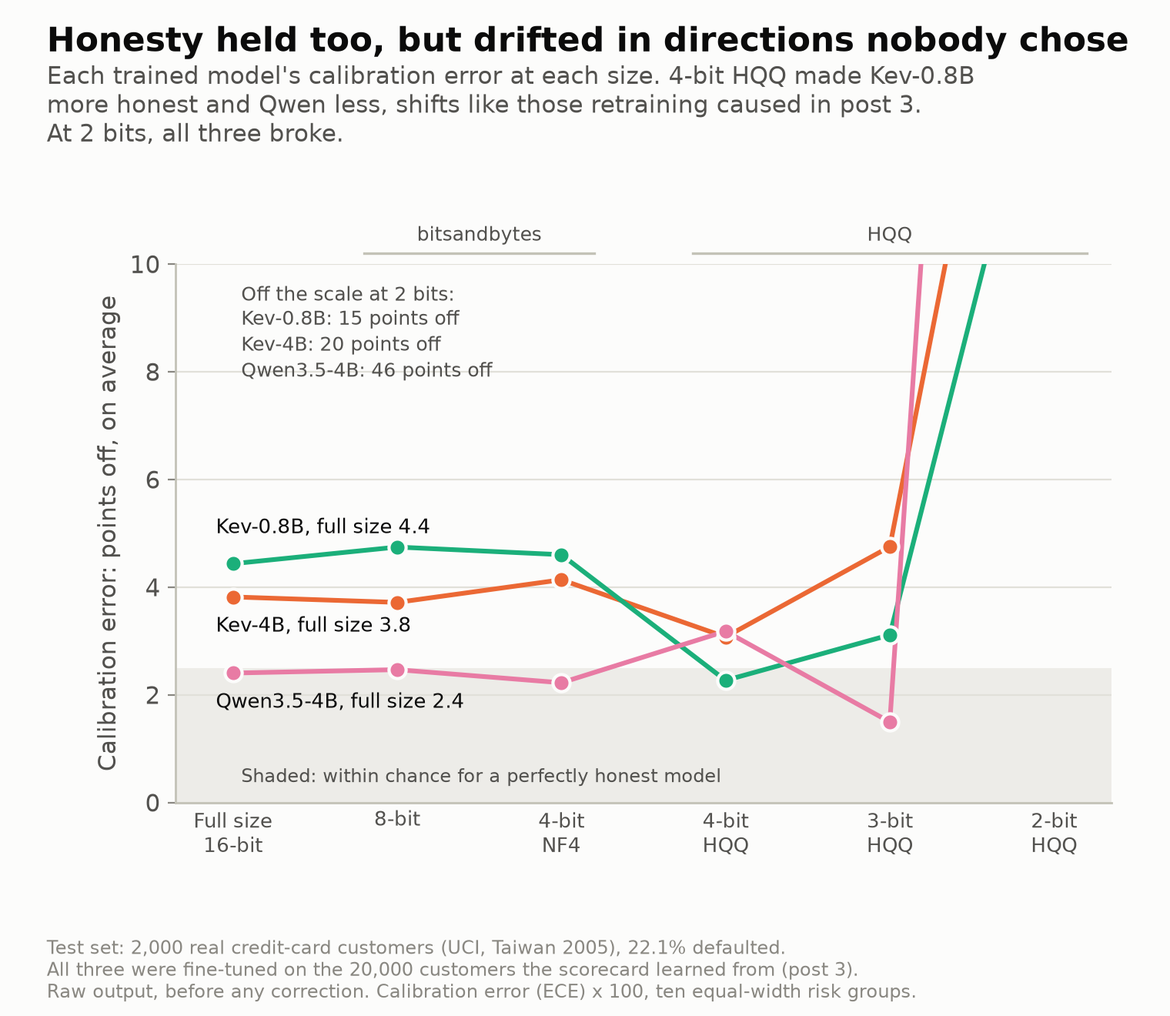
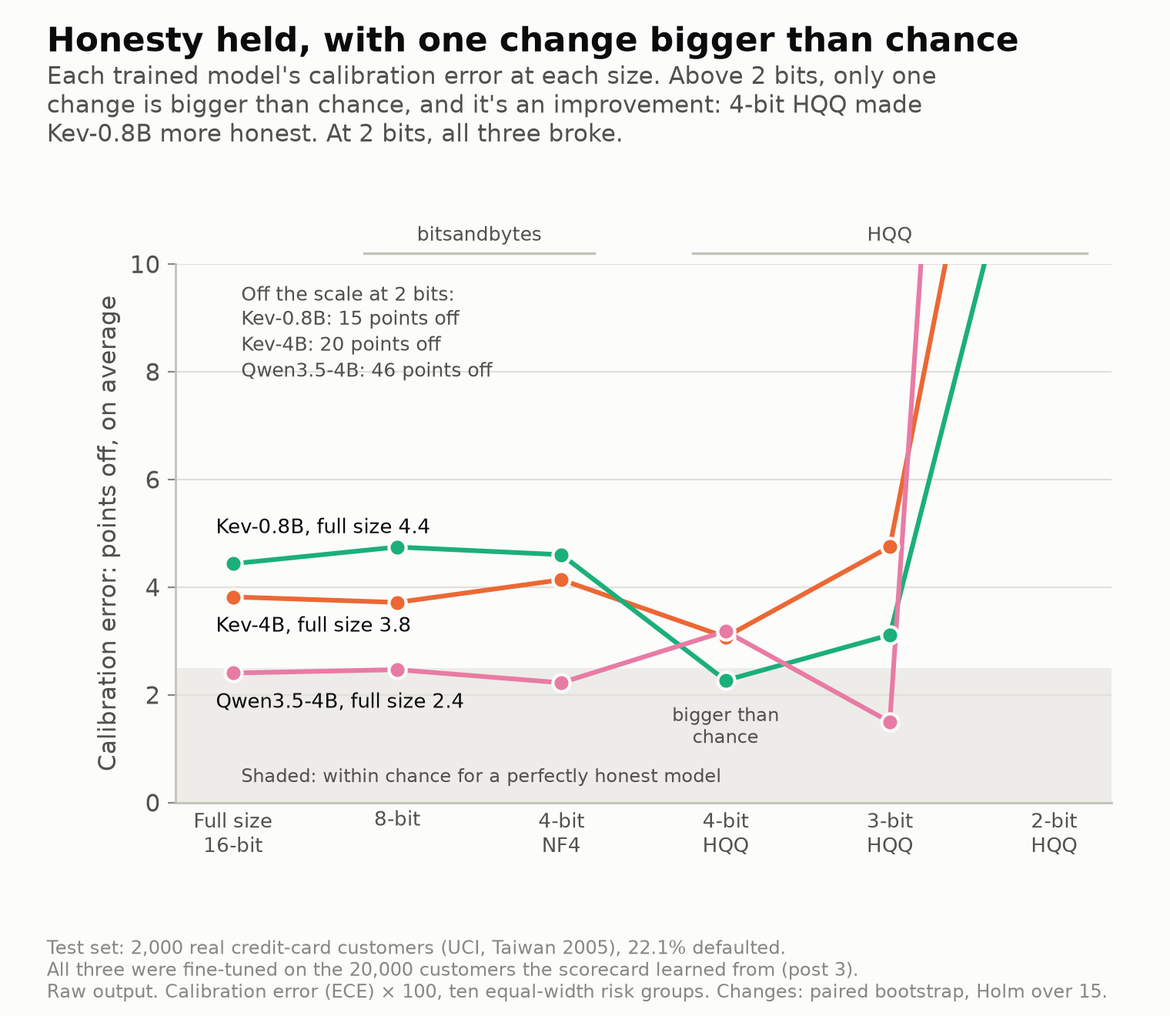
Review copy of post 4, version 2: speed re-run on a tuned GPU, review fixes
New title ("I shrank AI models. It saved memory, not time."), subtitle and speed
section with a new chart; decisions at the full-size cut-off; a paired test of
honesty changes; four more predictions. Still unlisted, noindex, no sitemap.

Changed region(s): [[0.0309, 0.0, 0.9586, 0.1553], [0.1546, 0.9629, 0.9276, 0.9939], [0.5875, 0.6833, 0.6493, 0.7455]]

diff --git a/review/shrinking-ai-models.md b/review/shrinking-ai-models.md
@@ -1,10 +1,10 @@
 ---
 layout: post
-title: "I shrank AI models to save money. They stayed honest, and got slower."
+title: "I shrank AI models. It saved memory, not time."
 date: 2026-11-26
 tags: [probability]
 permalink: /review/shrinking-ai-models/
-description: "I squeezed three trained AI models down to 8, 4, 3 and 2 bits. Their percentages held up longer than I expected. Their speed didn't."
+description: "I squeezed three trained AI models down to 8, 4, 3 and 2 bits. Their percentages held up to 4 bits. Shrinking saved memory, but rarely time."
 # Review copy: not listed on the home page or in the feed, hidden from search engines and the
 # sitemap, with Hypothesis for comments. To launch, move it to _posts/ and drop these four.
 noindex: true
@@ -13,146 +13,164 @@ hypothesis: true
 comments: false
 ---
 
-> **Draft for review, version 1 (26 November), not yet published.** Thank you for reading. This is the fourth post in the series, after [Can AI know when it's wrong?](/2026/11/23/can-ai-know-when-its-wrong/), [Why 99% accuracy can still be a disaster](/2026/11/24/why-99-percent-accuracy/) and [I gave AI the same data as a bank's model](/2026/11/25/fair-fight/). It takes the three models trained in the last post and shrinks them to save memory, then checks whether their percentages still come true.
+> **Draft for review, version 2 (27 November), not yet published.** Thank you for reading. This is the fourth post in the series, after [Can AI know when it's wrong?](/2026/11/23/can-ai-know-when-its-wrong/), [Why 99% accuracy can still be a disaster](/2026/11/24/why-99-percent-accuracy/) and [I gave AI the same data as a bank's model](/2026/11/25/fair-fight/). It takes the three models trained in the last post and shrinks them to save memory, then checks whether their percentages still come true.
+>
+> **New in version 2:** the speed section is re-run on a properly tuned GPU, with two faster 4-bit routes and FP8, and has a new title and chart. The lending-decision table now compares every version at the full-size model's cut-off, and changes in honesty now come with a test of whether they're bigger than chance.
 >
 > **To comment, no account needed:** reply to my message and quote the sentence you mean. If you already use [Hypothesis](https://web.hypothes.is/), you can also select text and click **Annotate**.
 >
-> I'd most like to know: does the headline ("they stayed honest, and got slower") feel fair given the details, does the section on customers moving while the scores held make sense and matter to you, would you act on the bank advice, and where did you get lost or bored?
+> I'd most like to know: does the headline ("it saved memory, not time") feel fair given the details, does the section on customers moving while the scores held make sense and matter to you, would you act on the bank advice, and where did you get lost or bored?
 
-*Three trained models, squeezed to 8, 4, 3 and 2 bits. Their percentages held up longer than I expected, their speed didn't, and the summary scores hid how far each customer's number moved.*
+*Three trained models, squeezed to 8, 4, 3 and 2 bits. Their percentages held up to 4 bits, but the summary scores hid how far each customer's number moved. And even on a tuned GPU, the smaller models were rarely faster.*
 
 Save a photo at a lower quality setting and, for a while, you can't tell the difference. Then, past some point, it turns into blocks.
 
-AI models get compressed the same way. A model is billions of numbers, each normally stored in 16 bits, enough for about 65,000 different values. Shrinking a model rounds those numbers more coarsely, like rounding every price in a shop to the nearest ten cents, then the nearest dollar, then the nearest ten dollars. It's called [quantization](https://huggingface.co/docs/transformers/main/en/quantization/overview), and it lets a model fit on smaller, cheaper hardware. The usual check afterwards is whether the model still gets the answers right.
+AI models get compressed the same way. A model is billions of numbers, each normally stored in 16 bits, enough for about 65,000 different values. Shrinking a model rounds those numbers more coarsely, like rounding every price in a shop to the nearest ten cents, then the nearest dollar, then the nearest ten dollars. It's called [quantization](https://huggingface.co/docs/transformers/main/en/quantization/overview), and it lets a model fit on a smaller, cheaper GPU, the chip that runs it. The usual check afterwards is whether the model still gets the answers right.
 
-This series checks something else: whether a model's percentages come true. In [my last post](/2026/11/25/fair-fight/), I trained three AI models on 20,000 credit-card customers whose outcomes were known, and they ranked customers about as well as the models banks use. This time I shrank those three, and asked the same 2,000 test customers the same question: how likely is this customer to miss next month's payment?
+This series checks something else: whether a model's percentages come true. In [my last post](/2026/11/25/fair-fight/), I trained four AI models on 20,000 credit-card customers whose outcomes were known, and they ranked customers about as well as the models banks use. This time I shrank three of them, and asked the same 2,000 test customers the same question: how likely is this customer to miss next month's payment? Would the shrunk models' percentages hold up, and would they really be cheaper to run?
 
-| Size | Values each number can take | GPU memory for the two 4B models |
+| Size | Values each number can take | Memory for the two 4B models' numbers |
 |---|---|---|
-| Full size, 16 bits | about 65,000 | 7.9 GB |
-| 8 bits | 256 | 4.5–4.6 GB |
-| 4 bits | 16 | 3.1 GB |
-| 3 bits | 8 | 2.7 GB |
-| 2 bits | 4 | 2.2 GB |
+| Full size, 16 bits | about 65,000 | 8.5 GB |
+| 8 bits | 256 | 4.9 GB |
+| 4 bits | 16 | 3.3–3.4 GB |
+| 3 bits | 8 | 2.9–3.0 GB |
+| 2 bits | 4 | 2.4 GB |
 
-Each small block of numbers gets its own scale, so even at 2 bits the four values differ from block to block. Some parts of each model stay full size, which is why 4 bits saves less than three-quarters of the memory.
+Each small block of numbers gets its own scale, so even at 2 bits the four values differ from block to block. The scales take space too, and some parts of each model stay full size, mostly the table that turns words into numbers. That's why 4 bits saves less than three-quarters of the memory.
 
-![Each trained model's ranking (AUC) at each size. Kev-4B, Kev-0.8B and Qwen3.5-4B stay between 0.780 and 0.792 from full size down to 4 bits, with either tool, all within 0.005 of their full-size scores and above the scorecard's 0.777. At 3 bits, Kev-0.8B (0.786) and Qwen (0.779) hold and Kev-4B slips to 0.776. At 2 bits, Kev-4B falls to 0.60, Kev-0.8B to 0.45 and Qwen to 0.43, the last two worse than a coin flip.](/public/images/shrinking-ai-models/post4_ranking.png){: data-dark-src="/public/images/shrinking-ai-models/post4_ranking-dark.png"}
+![Each trained model's ranking (AUC) at each size. Kev-4B, Kev-0.8B and Qwen3.5-4B stay between 0.780 and 0.792 from full size down to 4 bits, with either tool, all within 0.005 of their full-size scores and above the scorecard's 0.777. At 3 bits, Kev-0.8B (0.786) and Qwen (0.779) show no drop the test can detect and Kev-4B slips to 0.776. At 2 bits, Kev-4B falls to 0.60, Kev-0.8B to 0.45 and Qwen to 0.43, the last two worse than a coin flip.](/public/images/shrinking-ai-models/post4_ranking.png){: data-dark-src="/public/images/shrinking-ai-models/post4_ranking-dark.png"}
 
-## Three models, six sizes
+## Three models, six versions
 
-The three are the ones I trained last time: Kev-4B and Kev-0.8B, two open models built for decisions, and Qwen3.5-4B, a general open model. I left out Laya, the fourth: at 421 million parameters it already runs on a laptop's processor, so shrinking it doesn't answer a real question.
+The three are Kev-4B and Kev-0.8B, two open models built for decisions, and Qwen3.5-4B, a general open model. I left out Laya, the fourth model from last time: at 421 million numbers it already runs on a laptop's processor, so shrinking it doesn't answer a real question.
 
 I used two tools:
 
-- **bitsandbytes** at 8 bits and at 4 bits (a format called NF4), with the settings most people get when they ask the popular Hugging Face library to load a model "in 8-bit" or "in 4-bit".
+- **bitsandbytes,** the most widely used library for this: at 8 bits with its standard method (LLM.int8), and at 4 bits in NF4, the format most guides use.
 - **HQQ** at 4, 3 and 2 bits, so that one method goes all the way down, and its 4-bit version shows how much the tool matters at the same size.
 
-Neither tool needs any data to shrink a model, so nothing was tuned on the test customers. Each shrunk model is compared only with its own full-size version, run through the same server on the same GPU. And all three models learned from the same 20,000 customers as the scorecard I use as a reference.
+Neither tool needs any data to shrink a model, so nothing was tuned on the test customers. Each shrunk model is compared only with its own full-size version, run the same way on the same GPU. And all three models learned from the same 20,000 customers as the scorecard I use as a reference.
 
-## Ranking held to 3 bits, then fell off a cliff
+## Ranking held to 4 bits, and collapsed at 2
 
-To measure ranking I use the same score as before: pick one customer who defaulted and one who paid, and ask how often the model rates the defaulter as riskier ([AUC](https://en.wikipedia.org/wiki/Receiver_operating_characteristic#Area_under_the_curve); 0.5 is a coin toss).
+To measure ranking I use the same score as before: pick one customer who defaulted and one who paid, and ask how often the model rates the defaulter as riskier ([AUC](https://en.wikipedia.org/wiki/Receiver_operating_characteristic#Area_under_the_curve); 0.5 is a coin flip).
 
 The chart above tells it:
 
-- **Down to 4 bits, with either tool, nothing moved.** All three models stayed within 0.005 of their full-size scores, too close to tell apart.
-- **At 3 bits, Kev-4B slipped.** It dropped from 0.792 to 0.776, just under the scorecard. That was the only drop above 2 bits that held up statistically, even after correcting for making 15 comparisons. Kev-0.8B and Qwen held.
-- **At 2 bits, all three collapsed.** Kev-4B fell to 0.60, Kev-0.8B to 0.45 and Qwen to 0.43. The last two are worse than a coin toss: they'd do better with their answers reversed.
+- **Down to 4 bits, with either tool, nothing moved.** All three models stayed within 0.005 of their full-size scores. Comparing a model with itself on the same customers is precise: the test rules out a drop of more than about 0.004.
+- **At 3 bits, Kev-4B slipped,** from 0.792 to 0.776, level with the scorecard (0.777). That was the only drop above 2 bits the test detected, even after allowing for 15 comparisons (three models, five shrunk versions each). Kev-0.8B and Qwen showed no drop the test could detect, though at 3 bits it can't rule out one of up to about 0.015.
+- **At 2 bits, all three collapsed.** Kev-4B fell to 0.60, Kev-0.8B to 0.45 and Qwen to 0.43. The last two are worse than a coin flip: they'd do better with their answers reversed.
 
-## Honesty held too, but drifted in directions nobody chose
+## Honesty held, with one change bigger than chance
 
-Ranking is half the job. The other half is whether a model's percentages come true. I measure that as before: the average gap, in percentage points, between the risk a model promised and what happened ([calibration error](https://scikit-learn.org/stable/modules/calibration.html)). With 2,000 customers, a perfectly honest model stays below about 2.5 points in 95 samples out of 100.
+Ranking is half the job. The other half is whether a model's percentages come true. I measure that as before: the average gap, in percentage points, between the risk a model promised and what happened ([calibration error](https://scikit-learn.org/stable/modules/calibration.html)). With 2,000 customers, a perfectly honest model stays below about 2.5 points in 95 samples out of 100. To tell whether shrinking changed a model's honesty, I compared each shrunk version with its full size on the same customers, again allowing for the 15 comparisons.
 
-![Calibration error at each size, in points. At full size Kev-0.8B is 4.4 points off, Kev-4B 3.8 and Qwen3.5-4B 2.4. At 8 bits and 4-bit NF4, each stays within half a point of that. At 4-bit HQQ, Kev-0.8B improves to 2.3 and Qwen worsens to 3.2. At 3 bits, Kev-4B is 4.8, Kev-0.8B 3.1 and Qwen 1.5. At 2 bits all three are off the scale: Kev-0.8B 15, Kev-4B 20 and Qwen 46 points off.](/public/images/shrinking-ai-models/post4_honesty.png){: data-dark-src="/public/images/shrinking-ai-models/post4_honesty-dark.png"}
+![Calibration error at each size, in points. At full size Kev-0.8B is 4.4 points off, Kev-4B 3.8 and Qwen3.5-4B 2.4. At 8 bits and 4-bit NF4, each stays within half a point of that. At 4-bit HQQ, Kev-0.8B improves to 2.3, the only change above 2 bits bigger than chance; Kev-4B is 3.1 and Qwen 3.2. At 3 bits, Kev-4B is 4.8, Kev-0.8B 3.1 and Qwen 1.5. At 2 bits all three are off the scale: Kev-0.8B 15, Kev-4B 20 and Qwen 46 points off.](/public/images/shrinking-ai-models/post4_honesty.png){: data-dark-src="/public/images/shrinking-ai-models/post4_honesty-dark.png"}
 
 - **8 bits and 4-bit NF4 changed almost nothing.** Every model stayed within half a point of its full-size honesty.
-- **4-bit HQQ moved two models in opposite directions.** Kev-0.8B went from 4.4 points off to 2.3: more honest. Qwen went from 2.4 to 3.2: less. Shrinking nudged Kev-0.8B's average answer up from 18.1% to 19.9%, toward the 22.1% who actually defaulted (the last post found Kev understates risk), and nudged Qwen's down from 22.1% to 19.2%. Nobody chose those directions. They're side effects of rounding. For scale, retraining Kev-0.8B from a different random start moved it by 1.2 to 1.5 points in the last post.
-- **3 bits was mixed:** Kev-4B got worse (4.8), Kev-0.8B and Qwen better (3.1 and 1.5).
-- **2 bits broke all three:** 15, 20 and 46 points off. Qwen's average answer was 67%, against 22% who defaulted.
+- **4-bit HQQ made one model more honest, by more than chance.** Kev-0.8B went from 4.4 points off to 2.3. Shrinking nudged its average answer up from 18.1% to 19.9%, toward the 22.1% who actually defaulted (the last post found Kev understates risk). Nobody chose that direction: it's a side effect of rounding. For scale, retraining Kev-0.8B from a different random start in the last post gave an average of 20.0% and 3.0 points off, much the same.
+- **It also moved Qwen's average answer, down from 22.1% to 19.2%.** That's measured on the same customers, without outcomes, so it isn't the luck of the sample. Whether it made Qwen less honest can't be told: its error rose from 2.4 to 3.2 points, a change within chance. Kev-4B moved less (3.8 to 3.1).
+- **3 bits moved honesty both ways** (Kev-4B 4.8, Kev-0.8B 3.1, Qwen 1.5), none by more than chance.
+- **2 bits broke all three:** Kev-0.8B 15, Kev-4B 20 and Qwen 46 points off. Qwen's average answer was 67%, against 22% who defaulted.
 
-One twist at 2 bits. Apply the same correction as in the last post, learned from 2,000 separate customers, and the broken models come out about 1 point off: perfectly honest. That's because they say about 22% to almost everyone. A model that can't tell customers apart can still promise the right average. Honest and useless, which is why this series always measures ranking and honesty separately. (Down to 3 bits, the same correction left every version 1.4 to 3.3 points off, as at full size.)
+One twist at 2 bits. Apply the same correction as in the last post, learned from 2,000 separate customers, and the broken models come out about 1 point off, within chance of perfectly honest. That's because they now give almost everyone a similar answer, near the 22% average. A model that can't tell customers apart can still promise the right average. Honest and useless, which is why this series always measures ranking and honesty separately. (Down to 3 bits, the same correction left every version 1.4 to 3.3 points off, as at full size.)
 
 ## The scores held while the customers moved
 
-So far, so reassuring, down to 3 bits. But those are summary scores, and summaries can hide a lot. Here is each test customer's answer from Kev-0.8B, full size against shrunk:
+So far, so reassuring, at least down to 4 bits. But ranking and calibration error are summary scores, and summaries can hide a lot, the way a compressed photo looks fine from across the room. Here is each test customer's answer from Kev-0.8B, full size against shrunk:
 
-![Each dot is one test customer: Kev-0.8B's full-size answer against its shrunk answer, in four panels. At 4-bit NF4 the dots hug the no-change line: the average customer moved 0.9 points and 5 in 1,000 moved 5 points or more. At 4-bit HQQ, 3.0 points, and 8 in 100 moved 5 or more. At 3 bits, 6.6 points, and 62 in 100 moved 5 or more, with low answers pushed up and high answers pulled down, yet ranking 0.786 and 3.1 points off, as good as full size (0.790, 4.4 points off). At 2 bits the dots form a flat band between about 20% and 55% whatever the full-size answer, 26.6 points on average.](/public/images/shrinking-ai-models/post4_drift.png){: data-dark-src="/public/images/shrinking-ai-models/post4_drift-dark.png"}
+![Each dot is one test customer: Kev-0.8B's full-size answer against its shrunk answer, in four panels. At 4-bit NF4 the dots hug the no-change line: the average customer moved 0.9 points and 5 in 1,000 moved 5 points or more. At 4-bit HQQ, 3.0 points, and 8 in 100 moved 5 or more. At 3 bits, 6.6 points, and 62 in 100 moved 5 or more, with low answers pushed up and high answers pulled down, yet ranking 0.786 and 3.1 points off, against 0.790 and 4.4 at full size. At 2 bits the dots form a flat band between about 20% and 55% whatever the full-size answer, 26.6 points on average.](/public/images/shrinking-ai-models/post4_drift.png){: data-dark-src="/public/images/shrinking-ai-models/post4_drift-dark.png"}
 
 - **At 4-bit NF4, the answers barely moved:** less than a point for the average customer.
-- **At 3 bits, 6 in 10 customers' answers moved by 5 points or more.** Yet Kev-0.8B's ranking (0.786) and honesty (3.1 points off) looked as good as at full size. Its safest customers were pushed up and its riskiest pulled down. That squeezed the answers toward the middle, but it mostly kept their order and kept the averages roughly right.
+- **At 3 bits, 6 in 10 customers' answers moved by 5 points or more.** Yet Kev-0.8B's ranking (0.786) and calibration error (3.1 points off) looked as good as at full size. Its safest customers were pushed up and its riskiest pulled down: the answers were squeezed toward the middle, mostly in the same order, with the average still roughly right.
 - **At 2 bits, the answer hardly depends on the customer at all.**
 
 The other two models show the same pattern, less strongly: at 3 bits, 31 in 100 of Kev-4B's customers and 26 in 100 of Qwen's moved 5 points or more.
 
-A dashboard of summary scores would have passed the 3-bit Kev-0.8B. But each customer's number feeds a decision.
+A dashboard showing only ranking and average calibration error would have passed the 3-bit Kev-0.8B. A standard bank check would not. Its calibration slope, which is 1 when the spread of a model's answers is right, went from 0.86 to 1.31: the mark of answers squeezed toward the middle. And each customer's number feeds a decision.
 
 ## What it does to a lending decision
 
-To see what that means for a lender, I used the setup from [post 2](/2026/11/24/why-99-percent-accuracy/). A default costs four times what a paying customer earns, and the lender approves everyone below a cut-off chosen on 2,000 customers whose outcomes are known.
+To see what that means for a lender, I used the setup from [post 2](/2026/11/24/why-99-percent-accuracy/). Each paying customer earns 1 unit and each default costs 4, and the lender approves everyone whose risk is below a cut-off. Suppose the lender swaps in the shrunk model and keeps the cut-off it chose for the full-size one, as an infrastructure team might when it ships a smaller model to save money:
 
-| Version | Approve/decline decisions that differ from full size |
+| Version | Approve/decline decisions that differ from full size, at the full-size cut-off |
 |---|---|
-| The same full-size model, run a second way | 0.2% (Kev), 1.4% (Qwen) |
-| 8 bits | 1.3–3.3% |
-| 4 bits, NF4 | 1.7–3.0% |
-| 4 bits, HQQ | 1.8–4.9% |
-| 3 bits | 6.2–9.8% |
-| 2 bits | 48–72% |
+| The same full-size model, run again through the new code | 0.2% (both Kev models), 1.4% (Qwen) |
+| 8 bits | 0.9–3.3% |
+| 4 bits, NF4 | 1.5–3.4% |
+| 4 bits, HQQ | 2.6–7.1% |
+| 3 bits | 10–20% |
+| 2 bits | 62–72% |
 
-If the lender re-chooses each version's cut-off on the customers with known outcomes, every version down to 3 bits earns about the same: 281 to 304 per 1,000 customers, against 287 to 300 at full size. At 2 bits, it earns nothing (−10 to 73).
+Even 8 bits changed more decisions than running the same model twice. At 3 bits, the lending policy itself shifted without anyone deciding it: approvals fell from 62 in 100 to 43 for Kev-4B and from 72 to 59 for Kev-0.8B, while Qwen's rose from 63 to 68. Kev-4B's lender would also have earned less, 253 per 1,000 customers instead of 294, though profit gaps this size are hard to pin down with 2,000 customers. Swaps can go the other way too: Kev-4B at 4-bit HQQ earned 308 against 294.
 
-But a lender who swaps in the shrunk model and keeps the old cut-off ends up with a different lending policy. The 3-bit Kev-4B would approve 43 in 100 applicants instead of 62, and earn 253 per 1,000 instead of 294. The 4-bit HQQ Qwen, whose answers ran lower, would approve 70 instead of 63.
+If the lender instead re-chooses each version's cut-off on customers whose outcomes are known, every version down to 3 bits earns about the same: 282 to 304 per 1,000, against 287 to 300 at full size. At 2 bits, little or nothing: −10 to 73.
 
-## Smaller, but slower
+## Smaller, but not faster
 
-Now the reason to shrink a model at all: cost.
+Now the reason to shrink a model at all: cost. A rented GPU bills by the minute, so the faster a model answers, the cheaper each decision.
 
-![GPU memory at peak and median time per answer at each size. Memory falls with every step: the 4B models go from 8.1 to 8.3 GB at full size to 3.2 to 3.6 GB at 4 bits and 2.5 to 2.7 GB at 2 bits, and Kev-0.8B from 1.6 GB to 0.9 GB at 4 bits. Time per answer rises at every shrunk size: at full size, 62 ms for Kev-0.8B, 111 ms for Kev-4B and 120 ms for Qwen; at 4-bit NF4, 81, 139 and 152 ms; at 8 bits up to 289 ms; at HQQ 3 bits up to 467 ms for Kev-4B.](/public/images/shrinking-ai-models/post4_cost.png){: data-dark-src="/public/images/shrinking-ai-models/post4_cost-dark.png"}
+My first runs said every shrunk version was slower, some up to 4 times. A review of my draft pointed out that the setup held every version back, full size included. Two kinds of layers in these models ran on slow stand-in code, the shrunk versions used each library's general-purpose route, and Kev's server shortcut was off. (The shortcut, CUDA graphs, records the GPU's sequence of steps once and replays it for every request.)
 
-- **Memory fell as promised.** At 4 bits the two 4B models needed 3.2 to 3.6 GB at peak instead of 8.1 to 8.3, about 40%.
-- **Every shrunk version was slower.**
-  - 4-bit NF4 was a quarter to a third slower: Kev-4B went from 111 to 139 milliseconds per answer, Qwen from 120 to 152 and Kev-0.8B from 62 to 81.
-  - 8 bits took 1.4 to 3.5 times as long.
-  - HQQ took up to about 4 times as long: 426 milliseconds for Kev-4B at 4 bits, 467 at 3.
+So I rented the GPU again and set it up the way you would before deploying:
 
-A rented GPU bills by the minute, so per decision, slower means more expensive. Kev-4B cost 1.4 cents per 1,000 decisions at full size, and 5.2 cents at 4-bit HQQ. All small amounts, but the shrunk model costs more to run, not less.
+- **Fast versions of those layers,** small programs written for one job on the GPU, for every model. Kev's shortcut was on for every version; its server offers it only at full size, so I switched it on for the shrunk ones myself. Kev's own combined kernels, which work only on full-size numbers, were on at full size. Qwen was compiled for the GPU.
+- **The same 4-bit HQQ numbers on two faster routes:** GemLite, a library built for fast low-bit maths, and PyTorch's own 4-bit route.
+- **FP8,** where the GPU does its arithmetic in 8 bits, not just stores the numbers that way. The L4 has hardware for it, and it needs no data either.
 
-It gets worse in practice. Kev's own server has a shortcut, called CUDA graphs, that records the GPU's sequence of steps once and replays it for every request. It only works with full-size numbers. With it on, the last post's full-size Kev-0.8B answered in 24 milliseconds. Shrunk to 4 bits, it can't use the shortcut, and took 81: more than three times as long. (To compare sizes fairly, I measured every version here with the shortcut off.)
+![GPU memory at peak and time per answer, one customer at a time, on the tuned setup. Memory: the 4B models need 8.7 to 8.9 GB at full size and 3.5 to 3.9 GB at 4 bits; Kev-0.8B 1.7 GB and about 1 GB; Qwen with FP8 5.1 GB. Time per answer at full size: 20 ms for Kev-0.8B, 93 for Kev-4B and 78 for Qwen, down from 62, 111 and 120 in my first runs. 4-bit NF4: 23, 131 and 109 ms, down from 81, 139 and 152. 4-bit HQQ on GemLite: 24, 83 and 85 ms. On PyTorch's 4-bit route: 39 ms for Kev-0.8B and 242 for Kev-4B; Qwen wouldn't load. FP8: 77 ms for Qwen; both Kev models gave no answers.](/public/images/shrinking-ai-models/post4_cost.png){: data-dark-src="/public/images/shrinking-ai-models/post4_cost-dark.png"}
 
-Why slower? Each answer is one pass over a summary a few hundred words long, which the GPU does as one big block of arithmetic. Most likely the limit there is how fast the GPU can calculate, not how fast it can read its memory. Shrunk numbers have to be unpacked back to full size before each multiplication, which adds work. Shrinking pays off when memory is the limit: writing long answers word by word, serving many customers at once, or fitting a model onto a smaller, cheaper chip. On a GPU with room to spare, as here, it bought nothing but slower answers. Cheaper AI doesn't always mean cheaper bills.
+- **Memory fell as promised.** At 4 bits the two 4B models needed 3.5 to 3.9 GB at peak instead of 8.7 to 8.9, less than half.
+- **Tuning the setup mattered more than shrinking.** At full size, Kev-0.8B went from 62 milliseconds per answer to 20, Qwen from 120 to 78 and Kev-4B from 111 to 93. (The first runs timed answers during scoring, the new ones in a separate timing run, so take those gaps as rough.)
+- **Once tuned, shrinking still rarely saved time.** NF4 was 18% slower than full size for Kev-0.8B and 40% slower for the two 4B models. The fastest 4-bit route, GemLite, beat full size only for Kev-4B, by 11% (83 milliseconds against 93), and was slower for Kev-0.8B (24 against 20) and Qwen (85 against 78). FP8 ran Qwen at the same speed as full size, 77 milliseconds against 78.
+- **Three runs failed, and I recorded them rather than swapping in something else.** FP8 gave no answers on either Kev model (NaN, "not a number"), and PyTorch's 4-bit route wouldn't load Qwen with the newer PyTorch it needs. Where that route did run, it was the slowest: 2 to 2.6 times as long as full size.
+- **The fast routes gave the same answers.** On GemLite and on PyTorch's route, both Kev models' answers were 0.1 points from the slow route's on average; Qwen's on GemLite, 0.5. FP8 moved Qwen's answers about as much as 8 bits did, 1.0 points per customer against 0.8, and its honesty change was within chance: 2.4 points off at full size, 1.6 with FP8.
+
+What about scoring many customers at once, as an overnight batch would? At 32 at a time, full size was still the cheapest for both Kev models: 0.67 cents per 1,000 answers for Kev-4B, against 0.90 for its fastest 4-bit version. Qwen got no faster in batches in my setup, so its cheapest was one at a time: 0.95 cents per 1,000, at full size or with FP8.
+
+So the saving is memory, and memory pays only if it lets you rent a smaller GPU or fit more models on one. Here, all three already fit on the L4 at full size. Why shrinking didn't buy speed, I can't say: I didn't measure where the time goes.
 
 ## I got most of my predictions wrong, again
 
-Before any of these runs, I [wrote down](https://github.com/nishzsche/can-ai-know-when-its-wrong/blob/main/PREDICTIONS.md) what I expected:
+Before any of these runs, I [wrote down](https://github.com/nishzsche/can-ai-know-when-its-wrong/blob/main/PREDICTIONS.md) what I expected. After the first runs, and before the speed re-runs, I added four guesses about speed:
 
 | My guess | What happened |
 |---|---|
-| Honesty would get clearly worse already at 8 bits | ✗ At 8 bits every model stayed within half a point of full size. The first clear break came at 2 bits |
+| Honesty would get clearly worse already at 8 bits | ✗ At 8 bits every model stayed within half a point of full size. Above 2 bits, the only honesty change bigger than chance was an improvement. The first clear break came at 2 bits |
 | Ranking would hold at 4 bits for all three | ✓ Within 0.005, with either tool |
-| 4-bit NF4 would be faster than full size | ✗ A quarter to a third slower, for all three |
-| Qwen would hold up best, its percentages changing least | ✗ Mostly. Kev-4B changed least at 8 and 4 bits (0.3 to 1.1 points per customer). Qwen changed least at 3 bits (4.0 points), then broke hardest at 2 (49) |
+| 4-bit NF4 would be faster than full size | ✗ Slower for all three, by 18 to 40% on the tuned setup |
+| Qwen would hold up best, its percentages changing least | ✗ Not quite. Kev-4B changed least at 8 and 4 bits (0.3 to 1.1 points per customer). Qwen changed least at 3 bits (4.0 points), then broke hardest at 2 (49) |
+| With fast routes, 4 bits would answer one customer faster than a tuned full-size model | ✗ Only Kev-4B on GemLite, by 11%. Kev-0.8B and Qwen stayed slower |
+| FP8 would be faster than full size | ✗ The same speed for Qwen. It gave no answers on either Kev model |
+| FP8 would change honesty no more than 8 bits did | ✓ For Qwen, the only model it ran on: a change within chance, as with 8 bits, and answers moving about as far (1.0 points per customer against 0.8) |
+| 4-bit NF4 would be cheapest at 32 customers at a time | ✗ Full size was, for both Kev models. NF4 was cheapest only for Qwen, whose other versions slowed down in batches |
 
 ## What I'd tell a bank
 
-- **A shrunk model is a new model, so validate it like one.** Look at individual scores and cut-offs, not just summary scores: at 3 bits, the summaries held while most of one model's customers moved by 5 points or more.
-- **8 bits and the common 4-bit format were safe here.** Each moved the average customer by less than a point. Below 4 bits, test hard. 2 bits was broken.
-- **The tool matters as much as the size.** At the same 4 bits, HQQ moved the answers 1.5 to 3.2 times as much as NF4.
-- **Shrink to fit hardware, not to save time.** Measure speed and cost on your own setup. Here, every shrunk version was slower.
-- **Record the size with every score.** Each prediction here carries its precision and library versions, because the same model at a different size gives different answers.
+- **Treat shrinking as a material model change, not an IT change.** Agree tolerances first: how many decisions may change, how far any one customer may move, how far the calibration slope and the spread of scores may shift. Most of this needs no outcomes: score the same customers with both versions on day one. Then revalidate, and re-set the cut-off and any calibration through the usual approval process.
+- **8 bits and the common 4-bit format passed here.** The average customer moved less than a point, though a few moved up to 9. That tells you where to start testing, not whether to skip it.
+- **The tool matters as much as the size, at least here.** At the same 4 bits, HQQ moved the answers 1.5 to 3.2 times as much as NF4. One likely reason: NF4 spaces its 16 levels to match the bell-shaped spread of a model's numbers, while HQQ spaces them evenly.
+- **Record the whole setup with every score.** Each prediction here carries its size and library versions. Record the GPU, the kernels and the drivers too, and treat a library upgrade as a model change: the same full-size Qwen, run a second way, changed 1.4% of decisions. Even the batch size matters: scoring Qwen 8 or 32 customers at a time moved its answers by up to 3 points (5 with FP8), against under 1 for Kev.
+- **Price the saving on your own setup before counting on it.** Shrinking cut memory by more than half every time. On a tuned GPU it beat full size's speed in one case out of nine, by 11%, and matched it in one more. Tuning the setup changed speed by up to three times, more than any size did. If the reason to shrink is cost, the saving comes from a smaller or shared GPU, so that's what to price.
 
 ## What this test can't tell you
 
-- **Three models, one dataset, one way of serving:** a bank in Taiwan in 2005, one NVIDIA L4 GPU, one customer at a time. Speeds will differ on other hardware, with many requests at once, and with code built specifically for shrunk models.
+- **Three models, one dataset, one GPU:** a bank in Taiwan in 2005 and one NVIDIA L4.
+- **Speed depends on the whole setup.** A bigger GPU, a serving engine such as vLLM, or methods with their own fast kernels could change which version is fastest. Each speed figure is one timing run over 500 customers, so a gap like Kev-4B's 11% is a single measurement. Qwen's batches ran through my own code, which may be why batching didn't speed it up.
 - **Only methods that need no data.** Methods that tune their rounding on sample data, such as GPTQ and AWQ, often do better at 3 and 4 bits. I didn't test them.
-- **One training run per model.** Retraining alone moved honesty by up to 1.8 points in the last post, as much as most of the shrinking did here.
-- **Shrunk after training.** Training a model that's already shrunk, or in low precision from the start, could behave differently.
-- **Small gaps are hard to see:** with 2,000 test customers, ranking differences under about 0.02 can't be told apart. These test customers have also now been used in four posts. 6,000 customers that no model has seen are kept aside for one final replication.
+- **One training run per model.** Retraining alone moved Kev-0.8B's honesty by 1.2 to 1.5 points in the last post, as much as most of the shrinking did here.
+- **Shrunk after training.** Training a model that's already shrunk, or keeping the training update separate and full size, could behave differently.
+- **A use its maker doesn't support.** Kev's maker doesn't offer shrinking, so I wrapped its loader myself, and switched on its server's shortcut for the shrunk versions. Running a vendor's model in a way it doesn't support is a risk of its own.
+- **Fair lending isn't tested.** At 3 bits, 10 to 20 in 100 decisions changed. I haven't checked whether those customers differ by group.
+- **Small gaps between models are hard to see.** With 2,000 test customers, ranking gaps under about 0.02 between different models can't be told apart; a model compared with itself is measured far more precisely, to about 0.004. These test customers have also now been used in four posts. 6,000 customers that no model has seen are kept aside for one final replication.
 - **"Default" is the dataset's label:** missing next month's payment, not the 90-days-overdue definition banks use for capital.
 
 ## How I ran it
 
-Each model was merged with its training update first and then shrunk, so the result is one model, as you'd deploy it. The part of each model that turns its reading into a probability stays full size. Both tools' versions are pinned and recorded in every prediction. Kev doesn't support shrinking, so I wrapped its loader. Before any shrunk run, the full-size version had to reproduce the last post's predictions through the new code, and it did, within 0.002 on average. That's 72,000 predictions in all, in about 6 hours of GPU time for about $2.55. The measures were fixed before the runs, except the lending-decision counts, which I added while writing.
+Each model was merged with its training update first and then shrunk, so the result is one model, as you'd deploy it. The part of each model that turns its reading into a probability stays full size. Both tools' versions are pinned and recorded in every prediction. Before any full run of a shrunk model, the full-size version had to reproduce the last post's predictions through the new code, and it did: on 50 check customers, within 0.002 on average. Scoring took 72,000 predictions and about 4.3 hours of GPU time, about $1.90. The measures were fixed before the runs, except three I added later: the lending-decision counts and the share of customers moving 5 points or more, while writing, and the paired test of honesty changes, after review.
+
+The speed re-runs used the same shrunk numbers, on a fresh GPU. Before any timing, the tuned full-size and NF4 versions had to reproduce the first runs' answers on 50 check customers, and they did: about 0.001 apart on average for Kev, 0.005 to 0.006 for Qwen. Each version was timed on the same 500 check customers, not test customers, at 1, 8 and 32 at a time. The re-runs took about 3.4 hours on the rented GPU, setup and a 37-minute restart included, about $1.50. Every library version is recorded with each prediction, and the three failures are recorded in the repository.
 
 ## What's next
 
